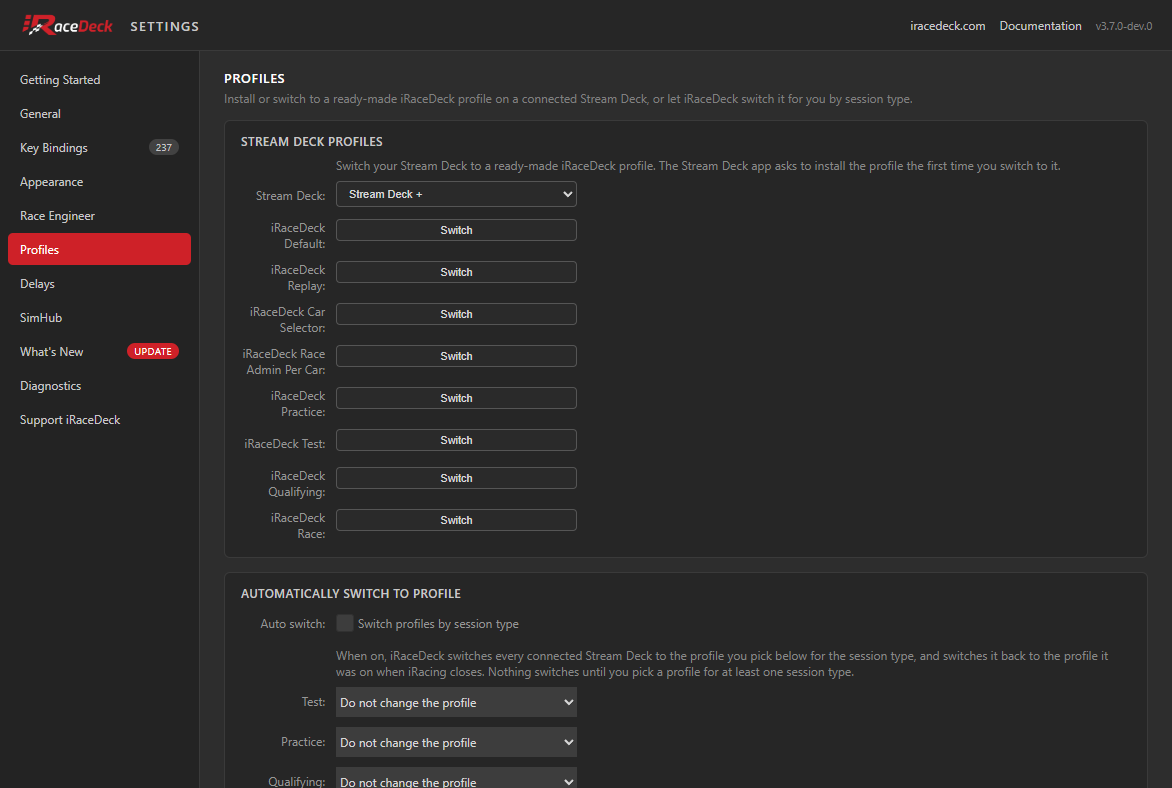
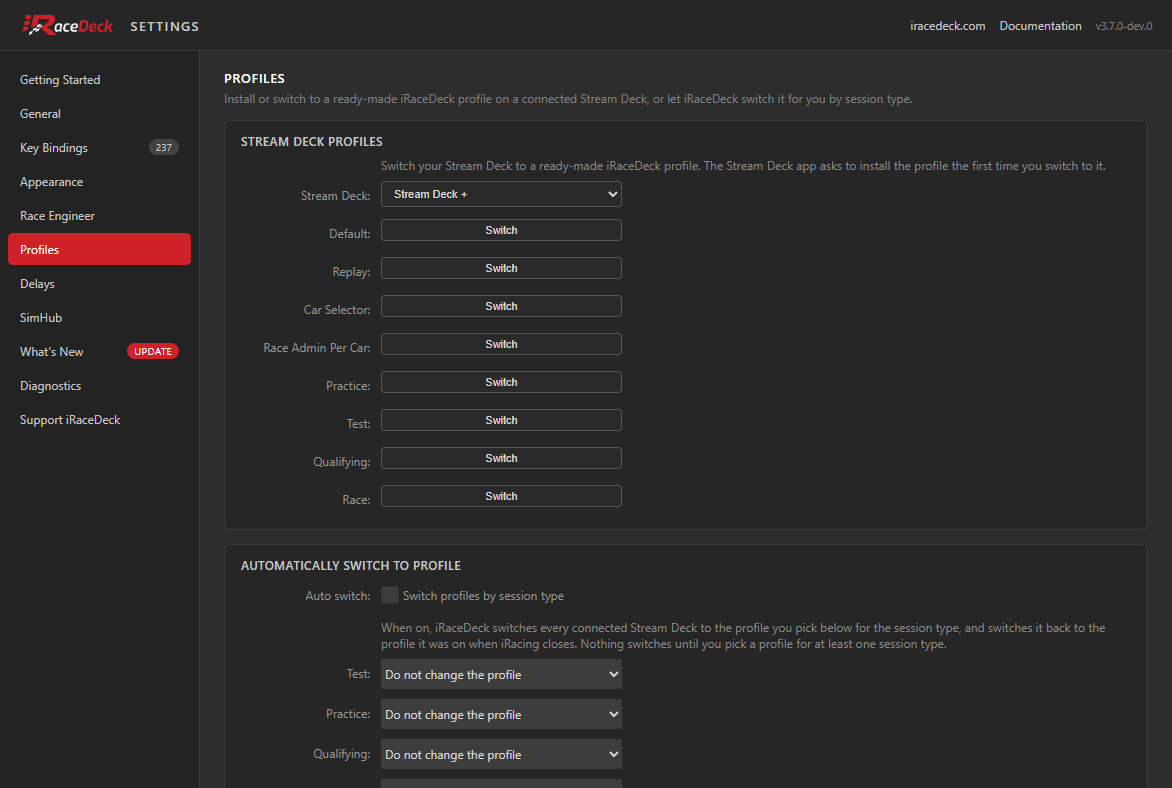
feat(pi-components): shorter template names and a wider label column on the Profiles tab (#1111)
In the settings window both Profiles cards drop the "iRaceDeck " prefix every
template name shares; the stored value and the switch keep the full display
name. sdpi-item's label column is a fixed 95px in its shadow DOM, so
"Race Admin Per Car" wrapped onto two lines; the new ird-label-width wrapper
widens it to 140px for the Profiles pane and moves the help-text indent with it.

Changed region(s): [[0.215, 0.1827, 0.9215, 0.7614], [0.215, 0.7919, 0.9522, 1.0], [0.2457, 0.7919, 0.2765, 0.8223]]

diff --git a/packages/pi-components/src/components/label-width.ts b/packages/pi-components/src/components/label-width.ts
@@ -1,0 +1,120 @@
+/// <reference lib="dom" />
+/**
+ * Widens the label column of every `sdpi-item` inside it. Settings window only.
+ *
+ * `sdpi-item` lays itself out as a fixed `95px` label column beside a `241px`
+ * control column, in its own shadow DOM, with no custom property or part to
+ * change it from outside — so a long label ("Race Admin Per Car") wraps onto
+ * two lines. This wrapper appends one `<style>` to the shadow root of each
+ * `sdpi-item` it holds, widening the label column, and moves the
+ * `.ird-supporting-text` indent (which aligns help text under the controls) to
+ * match. Items outside it keep the vendored layout.
+ *
+ * Usage (the settings window's Profiles pane):
+ * ```html
+ * <ird-label-width width="140">
+ *   <sdpi-item label="Race Admin Per Car">…</sdpi-item>
+ * </ird-label-width>
+ * ```
+ *
+ * Attributes:
+ * - `width`: the label column in pixels (default 140; a value below the
+ *   vendored 95 or above 400 falls back to the default).
+ */
+
+const DEFAULT_WIDTH = 140;
+const MIN_WIDTH = 95;
+const MAX_WIDTH = 400;
+/** The control column `sdpi-item` draws; unchanged, so controls keep their size. */
+const CONTROL_WIDTH = 241;
+const STYLE_MARKER = "data-ird-label-width";
+
+let styleInjected = false;
+
+/**
+ * The label column width a `width` attribute asks for, in pixels.
+ *
+ * @internal Exported for testing
+ */
+export function parseLabelWidth(value: string | null): number {
+  if (value === null || !/^\d+$/.test(value.trim())) return DEFAULT_WIDTH;
+
+  const width = Number(value.trim());
+
+  return width >= MIN_WIDTH && width <= MAX_WIDTH ? width : DEFAULT_WIDTH;
+}
+
+export class LabelWidth extends HTMLElement {
+  private readonly onParsed = (): void => this.apply();
+
+  connectedCallback(): void {
+    this.injectStyle();
+    this.style.setProperty("--ird-label-width", `${this.width}px`);
+
+    // The items are upgraded once sdpi-components defines them; during parsing
+    // this element connects before its children exist, so apply again after.
+    void customElements.whenDefined("sdpi-item").then(() => this.apply());
+
+    if (document.readyState === "loading") {
+      document.addEventListener("DOMContentLoaded", this.onParsed, { once: true });
+    }
+
+    this.apply();
+  }
+
+  disconnectedCallback(): void {
+    document.removeEventListener("DOMContentLoaded", this.onParsed);
+  }
+
+  private get width(): number {
+    return parseLabelWidth(this.getAttribute("width"));
+  }
+
+  /**
+   * Give every held `sdpi-item` that has rendered its shadow root the wider
+   * column, once. The selector is `.container.grid`, not `.grid`: Lit applies
+   * the vendored styles as adopted stylesheets, which come after a shadow
+   * root's own `<style>` in the cascade, so an equally specific rule here loses.
+   */
+  private apply(): void {
+    const css = `.container.grid{grid-template-columns:${this.width}px ${CONTROL_WIDTH}px}`;
+
+    for (const item of Array.from(this.querySelectorAll("sdpi-item"))) {
+      const root = item.shadowRoot;
+
+      if (!root) continue;
+
+      const existing = root.querySelector<HTMLStyleElement>(`style[${STYLE_MARKER}]`);
+
+      if (existing) {
+        existing.textContent = css;
+        continue;
+      }
+
+      const style = document.createElement("style");
+
+      style.setAttribute(STYLE_MARKER, "");
+      style.textContent = css;
+      root.appendChild(style);
+    }
+  }
+
+  private injectStyle(): void {
+    if (styleInjected || typeof document === "undefined") return;
+
+    const style = document.createElement("style");
+
+    style.textContent = `
+      ird-label-width { display: block; }
+      ird-label-width .ird-supporting-text:not(.ird-supporting-text-full) { padding-left: var(--ird-label-width); }
+    `;
+    document.head.appendChild(style);
+    styleInjected = true;
+  }
+}
+
+if (typeof customElements !== "undefined") {
+  if (!customElements.get("ird-label-width")) {
+    customElements.define("ird-label-width", LabelWidth);
+  }
+}

diff --git a/packages/pi-components/src/components/label-width.test.ts b/packages/pi-components/src/components/label-width.test.ts
@@ -1,0 +1,83 @@
+// @vitest-environment jsdom
+import { beforeAll, beforeEach, describe, expect, it } from "vitest";
+
+import { parseLabelWidth } from "./label-width.js";
+
+/** Stands in for the vendored sdpi-item: a shadow root holding its `.grid`. */
+class FakeSdpiItem extends HTMLElement {
+  constructor() {
+    super();
+    this.attachShadow({ mode: "open" }).innerHTML = `<div class="container grid"></div>`;
+  }
+}
+
+const markerStyles = (item: Element): HTMLStyleElement[] =>
+  Array.from(item.shadowRoot!.querySelectorAll<HTMLStyleElement>("style[data-ird-label-width]"));
+
+/** Let the wrapper's `whenDefined` callback run. */
+const flush = (): Promise<void> => new Promise((resolve) => setTimeout(resolve, 0));
+
+describe("parseLabelWidth", () => {
+  it("reads a width in range and falls back to 140 otherwise", () => {
+    expect(parseLabelWidth("160")).toBe(160);
+    expect(parseLabelWidth(" 120 ")).toBe(120);
+    expect(parseLabelWidth(null)).toBe(140);
+    expect(parseLabelWidth("")).toBe(140);
+    expect(parseLabelWidth("wide")).toBe(140);
+    expect(parseLabelWidth("12.5")).toBe(140);
+    expect(parseLabelWidth("40")).toBe(140);
+    expect(parseLabelWidth("900")).toBe(140);
+  });
+});
+
+describe("ird-label-width", () => {
+  beforeAll(() => {
+    if (!customElements.get("sdpi-item")) customElements.define("sdpi-item", FakeSdpiItem);
+  });
+
+  beforeEach(() => {
+    while (document.body.firstChild) document.body.removeChild(document.body.firstChild);
+  });
+
+  it("widens the label column of every sdpi-item inside it, once each, and leaves the rest alone", async () => {
+    document.body.innerHTML =
+      `<sdpi-item id="outside" label="Outside"></sdpi-item>` +
+      `<ird-label-width width="160"><sdpi-item label="Race Admin Per Car"></sdpi-item>` +
+      `<div><sdpi-item label="Nested"></sdpi-item></div></ird-label-width>`;
+    await flush();
+
+    const inside = Array.from(document.querySelectorAll("ird-label-width sdpi-item"));
+
+    expect(inside).toHaveLength(2);
+
+    for (const item of inside) {
+      expect(markerStyles(item).map((s) => s.textContent)).toEqual([
+        ".container.grid{grid-template-columns:160px 241px}",
+      ]);
+    }
+
+    expect(markerStyles(document.getElementById("outside")!)).toEqual([]);
+
+    // Re-applying (a second connect) updates the one style rather than adding another.
+    const wrapper = document.querySelector("ird-label-width")!;
+
+    wrapper.setAttribute("width", "150");
+    document.body.appendChild(wrapper);
+    await flush();
+    expect(markerStyles(inside[0]!).map((s) => s.textContent)).toEqual([
+      ".container.grid{grid-template-columns:150px 241px}",
+    ]);
+  });
+
+  it("exposes the width for the supporting-text indent and uses the default without an attribute", async () => {
+    document.body.innerHTML = `<ird-label-width><sdpi-item label="Default"></sdpi-item></ird-label-width>`;
+    await flush();
+
+    const wrapper = document.querySelector<HTMLElement>("ird-label-width")!;
+
+    expect(wrapper.style.getPropertyValue("--ird-label-width")).toBe("140px");
+    expect(document.head.textContent).toContain(
+      "ird-label-width .ird-supporting-text:not(.ird-supporting-text-full) { padding-left: var(--ird-label-width); }",
+    );
+  });
+});

diff --git a/packages/pi-components/src/build/global-stream-deck-profiles-partial.test.ts b/packages/pi-components/src/build/global-stream-deck-profiles-partial.test.ts
@@ -48,7 +48,11 @@ describe("global-stream-deck-profiles.ejs in the settings window (#1457)", () =>
   it("gives each template row the device types it has a variant for, one row per template", () => {
     const html = render({ settingsWindow: true }, fixture);
 
-    expect(rowTypes(html)).toEqual({ "iRaceDeck Default": "2,0", "iRaceDeck Replay": "2,13" });
+    expect(rowTypes(html)).toEqual({ Default: "2,0", Replay: "2,13" });
+    // The label drops the shared prefix; the switch keeps the full display name.
+    expect(html).toContain(
+      '<ird-profile-switch profile="iRaceDeck Default" label="Switch" device-from="sw-deck-device">',
+    );
   });
 
   it("puts every real template's row inside ird-profile-variants, bound to the deck picker", () => {
@@ -58,12 +62,14 @@ describe("global-stream-deck-profiles.ejs in the settings window (#1457)", () =>
 
     expect(html).toContain('<ird-deck-device-select select-id="sw-deck-device">');
     expect(wrapper).not.toBeNull();
-    expect(Object.keys(rowTypes(wrapper![1]))).toEqual(templates);
+    const label = (name: string): string => name.replace(/^iRaceDeck /, "");
+
+    expect(Object.keys(rowTypes(wrapper![1]))).toEqual(templates.map(label));
 
     for (const name of templates) {
       const types = realProfiles.filter((p) => (p.displayName ?? p.name) === name).map((p) => p.deviceType);
 
-      expect(rowTypes(html)[name]!.split(",").map(Number).sort(), name).toEqual([...new Set(types)].sort());
+      expect(rowTypes(html)[label(name)]!.split(",").map(Number).sort(), name).toEqual([...new Set(types)].sort());
     }
   });
 

diff --git a/packages/pi-components/src/build/profile-auto-switch-partial.test.ts b/packages/pi-components/src/build/profile-auto-switch-partial.test.ts
@@ -98,7 +98,7 @@ describe("global-profile-auto-switch.ejs (#1111)", () => {
     for (const row of kindRows) {
       expect(row.options, row.label).toEqual([
         ["", "Do not change the profile"],
-        ...templates.map((name): [string, string] => [name, name]),
+        ...templates.map((name): [string, string] => [name, name.replace(/^iRaceDeck /, "")]),
       ]);
     }
   });
@@ -114,8 +114,8 @@ describe("global-profile-auto-switch.ejs (#1111)", () => {
 
     expect(options).toEqual([
       ["", "Do not change the profile"],
-      ["iRaceDeck Race", "iRaceDeck Race"],
-      ["iRaceDeck Test", "iRaceDeck Test"],
+      ["iRaceDeck Race", "Race"],
+      ["iRaceDeck Test", "Test"],
     ]);
   });
 

diff --git a/packages/pi-components/src/components/index.ts b/packages/pi-components/src/components/index.ts
@@ -95,6 +95,9 @@ export { DevBaseUrl } from "./dev-base-url.js";
 // Profile Variants - hides the profile rows the chosen deck has no variant of (#1457)
 export { ProfileVariants } from "./profile-variants.js";
 
+// Label Width - widens the sdpi-item label column inside it (settings window Profiles pane)
+export { LabelWidth } from "./label-width.js";
+
 // Shared Poller - one per-page polling interval with page-lifecycle cleanup
 export { createSharedPoller, installSharedPoller, POLL_INTERVAL_MS } from "./poller.js";
 

diff --git a/.claude/rules/stream-deck-actions.md b/.claude/rules/stream-deck-actions.md
@@ -261,6 +261,8 @@ Persistence is by stable device id, not by enumeration index, so unplugging or r
 
 **`ird-profile-variants`** - Settings-window-only wrapper around the Stream Deck Profiles rows (#1457). `device-from="<select id>"` names the picker; on its `ird-deck-device-change` it shows a child carrying `data-device-types="0,2,7,13"` only when the list holds the chosen deck's type, and shows the `data-no-variants` child in place of the rows when the deck has no variant of any template. With no deck chosen, or no type published, every row shows; a child without `data-device-types` is never hidden. Rendered by `global-stream-deck-profiles.ejs` under `locals.settingsWindow`.
 
+**`ird-label-width`** - Settings-window-only wrapper that widens the `sdpi-item` label column inside it (`width`, default 140 px; the vendored column is a fixed 95 px in `sdpi-item`'s shadow DOM, with no custom property or part to change it). It appends one `<style>` to each held item's shadow root, using a selector more specific than the vendored `.grid` because Lit's adopted stylesheets win a tie, and moves the `.ird-supporting-text` indent to match. Wraps the Profiles pane, whose template labels would otherwise wrap.
+
 **`ird-warnings`** - Global warning banner. Auto-injected at the top of every Property Inspector by `head-common.ejs` (no per-template markup). Subscribes to the `_warnings` global setting and renders one banner per `{ id, level, message }` record. Plugins post/clear warnings with `setWarning`/`clearWarning` from `@iracedeck/settings`. See `@.claude/rules/global-settings.md` for the data shape. Do not add `<ird-warnings>` to individual templates — it is injected globally. The one page that does is the settings window (#1014): it places its own `<ird-warnings data-auto except="settings-window-server,settings-window-open">` as the body's first child, which SUPPRESSES the injection (the guard looks for `ird-warnings[data-auto]`) rather than adding a second strip — that page is served by the settings server, so neither settings-window banner can be true on it. Two attributes narrow what an instance shows, for a warning that belongs beside one control rather than in the page-top strip: `only="id,…"` renders just those ids and `except="id,…"` renders everything else. Use them **as a pair** — the dedicated instance claims the id, the top strip excludes it — so the banner still appears exactly once per page. The settings-window **open**-failure banner is the one case today (`open-settings.ejs`, #1005) — its page-wide server-failure sibling is named in no filter and shows in the strip like any other warning. It is placed in a shared partial rather than per template, so the rule above still stands for action templates.
 
 **Never** use raw `<button>`, `<select>`, `<input>`, or `<textarea>` in a PI `.ejs`. Use an `sdpi-*` component or introduce a new `ird-*` component in `packages/pi-components/src/components/` if no suitable one exists. The one deliberate exception is the settings window's own page chrome (`settings-window.ejs`, #992: the sidebar tab buttons and the key-binding search/category filter) — page-local UI that binds to no setting, on a page that is not a Property Inspector; every control there that stores a setting is still `sdpi-*`/`ird-*`.
